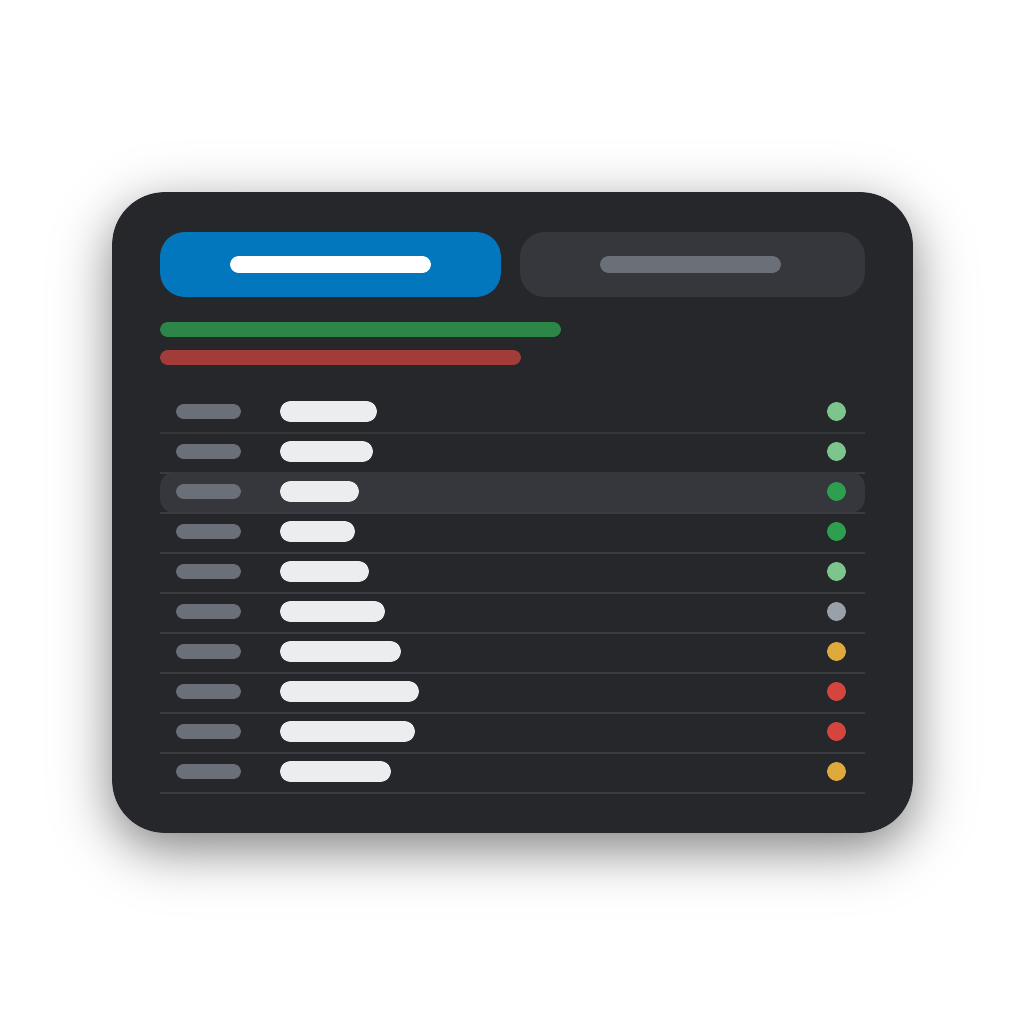
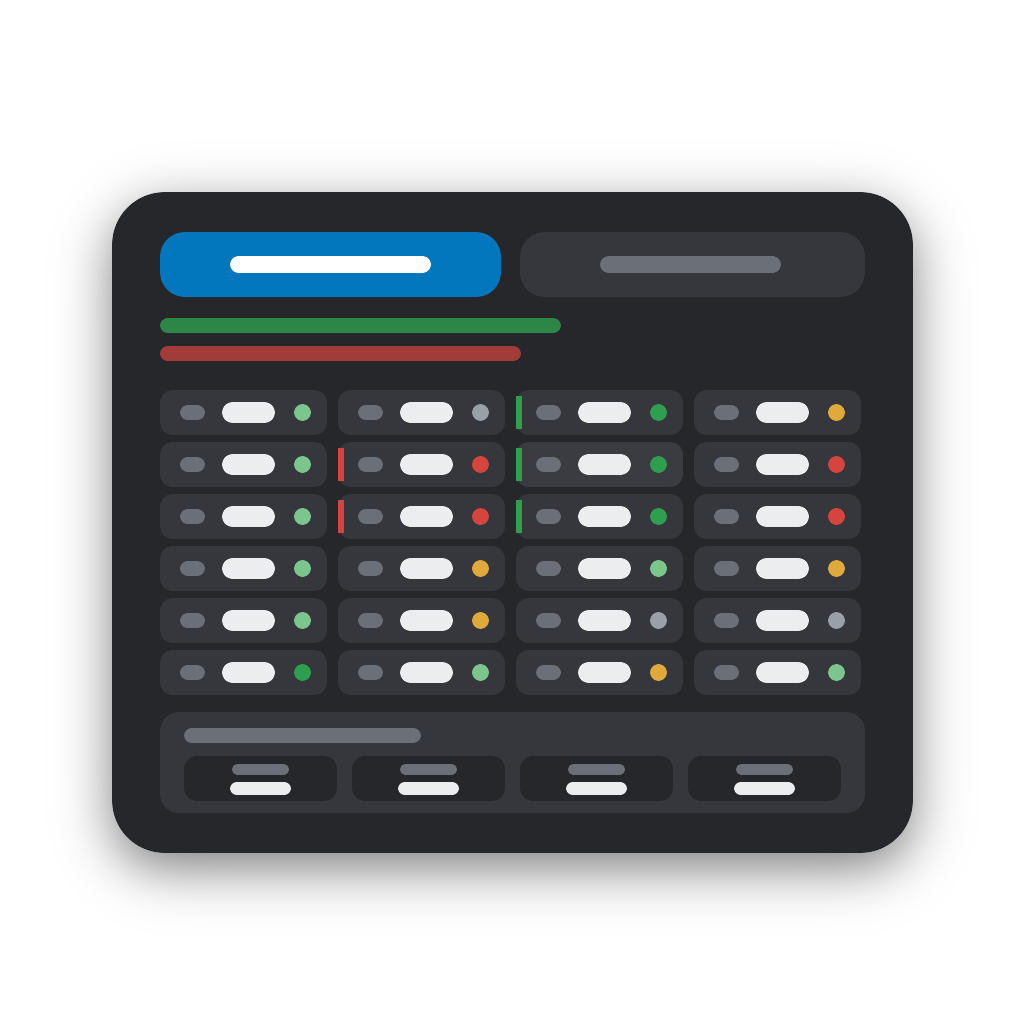
Price list widget: show all 24 hours in a grid instead of a scrolling list
A list with its own scroll area is awkward to use inside a phone
widget and cut off the evening. The hours now sit in a 4 x 6 grid that
fits without scrolling (cheap/peak block marked by a coloured edge,
current hour outlined); tapping an hour shows its quarter-hours in a
panel below. Previews and height updated.

diff --git a/widgets/prices/public/index.html b/widgets/prices/public/index.html
@@ -34,7 +34,7 @@
     html, body { margin: 0; padding: 0; }
     body {
       font-family: -apple-system, BlinkMacSystemFont, "Segoe UI", Roboto, sans-serif;
-      font-size: 13px; color: var(--pl-text); background: var(--pl-bg); padding: 10px 12px 10px;
+      font-size: 12px; color: var(--pl-text); background: var(--pl-bg); padding: 10px 12px 10px;
     }
     .tabs { display: flex; gap: 6px; }
     .tab {
@@ -47,27 +47,32 @@
     .blocks b { font-weight: 700; }
     .blocks .c b { color: var(--pl-vcheap); }
     .blocks .p b { color: var(--pl-vexp); }
-    .list { margin-top: 8px; height: 214px; overflow-y: auto; border-top: 1px solid var(--pl-border); -webkit-overflow-scrolling: touch; }
-    .row {
-      display: grid; grid-template-columns: 52px 1fr 14px; align-items: center; gap: 8px;
-      padding: 6px 4px; border-bottom: 1px solid var(--pl-border); cursor: pointer;
+    .grid { margin-top: 8px; display: grid; grid-auto-flow: column; gap: 4px; }
+    .cell {
+      display: flex; align-items: center; gap: 4px; padding: 0 6px; height: 30px; border-radius: 7px;
+      background: var(--pl-chip-bg); border-left: 3px solid transparent; cursor: pointer; min-width: 0;
+      -webkit-tap-highlight-color: transparent;
     }
-    .row .t { color: var(--pl-muted); font-variant-numeric: tabular-nums; }
-    .row .p { font-weight: 700; font-variant-numeric: tabular-nums; }
-    .row .tag { margin-left: 6px; font-size: 10px; font-weight: 600; padding: 1px 6px; border-radius: 999px; background: var(--pl-chip-bg); }
-    .row .tag.c { color: var(--pl-vcheap); }
-    .row .tag.k { color: var(--pl-vexp); }
-    .row.now { background: var(--pl-chip-bg); }
-    .row.now .t { color: var(--pl-text); font-weight: 700; }
-    .row.past { opacity: .5; }
-    .dot { width: 10px; height: 10px; border-radius: 50%; background: var(--pl-normal); }
+    .cell .t { color: var(--pl-muted); font-size: 10.5px; font-variant-numeric: tabular-nums; flex: 0 0 auto; }
+    .cell .p { font-weight: 700; font-size: 12px; font-variant-numeric: tabular-nums; flex: 1 1 auto; text-align: right; }
+    .cell .dot { width: 8px; height: 8px; border-radius: 50%; flex: 0 0 auto; background: var(--pl-normal); }
+    .cell.cheap { border-left-color: var(--pl-vcheap); }
+    .cell.pricey { border-left-color: var(--pl-vexp); }
+    .cell.past { opacity: .5; }
+    .cell.now { outline: 2px solid var(--pl-accent); outline-offset: -2px; }
+    .cell.sel { background: var(--pl-border); }
     .dot.very_cheap { background: var(--pl-vcheap); }
     .dot.cheap { background: var(--pl-cheap); }
     .dot.normal { background: var(--pl-normal); }
     .dot.expensive { background: var(--pl-exp); }
     .dot.very_expensive { background: var(--pl-vexp); }
-    .quarter { padding-left: 24px; background: transparent; font-size: 12px; cursor: default; }
-    .quarter.now .t { color: var(--pl-text); font-weight: 700; }
+    .detail { margin-top: 8px; padding: 6px 8px; border-radius: 8px; background: var(--pl-chip-bg); min-height: 44px; }
+    .detail .title { font-size: 10.5px; color: var(--pl-muted); margin-bottom: 4px; }
+    .quarters { display: flex; gap: 6px; }
+    .q { flex: 1; text-align: center; padding: 3px 0; border-radius: 6px; background: var(--pl-bg); }
+    .q .qt { display: block; font-size: 10px; color: var(--pl-muted); }
+    .q .qp { font-weight: 700; font-size: 12px; font-variant-numeric: tabular-nums; }
+    .q.now { outline: 2px solid var(--pl-accent); outline-offset: -2px; }
     .foot { margin-top: 6px; font-size: 10px; color: var(--pl-muted); display: flex; justify-content: space-between; gap: 8px; }
     .loading, .load-error, .no-device, .pending { text-align: center; color: var(--pl-muted); font-size: 12px; padding: 18px 0; }
     .load-error { color: var(--pl-vexp); }
@@ -78,10 +83,8 @@
 
   <script type="text/javascript">
     var day = 'today';
-    var expanded = {};
+    var selected = {};
     var lastJson = null;
-    var firstRender = true;
-    var scrolledFor = null;
 
     function esc(str) {
       return String(str == null ? '' : str).replace(/[&<>"']/g, function (c) {
@@ -90,24 +93,13 @@
     }
     function f1(v) { return typeof v === 'number' ? v.toFixed(1) : '–'; }
 
-    function rowsHtml(Homey, d) {
-      return d.hours.map(function (h, i) {
-        var cls = 'row' + (h.isNow ? ' now' : '') + (h.isPast ? ' past' : '');
-        var tag = (h.cheap ? '<span class="tag c">' + esc(Homey.__('priceList.cheapTag')) + '</span>' : '') +
-          (h.pricey ? '<span class="tag k">' + esc(Homey.__('priceList.priceyTag')) + '</span>' : '');
-        var key = d.key + '-' + h.hour;
-        var out = '<div class="' + cls + '" data-key="' + esc(key) + '"' + (h.isNow ? ' id="now-row"' : '') + '>' +
-          '<span class="t">' + esc(h.hour) + '</span>' +
-          '<span><span class="p">' + f1(h.avg) + '</span>' + tag + '</span>' +
-          '<span class="dot ' + (h.level || '') + '"></span></div>';
-        if (expanded[key]) {
-          out += h.quarters.map(function (q) {
-            return '<div class="row quarter' + (q.isNow ? ' now' : '') + '"><span class="t">' + esc(q.time) + '</span>' +
-              '<span class="p">' + f1(q.value) + '</span><span class="dot ' + (q.level || '') + '"></span></div>';
-          }).join('');
-        }
-        return out;
-      }).join('');
+    function detailHtml(Homey, d, key) {
+      var h = d.hours.filter(function (x) { return x.hour === key; })[0];
+      if (!h) return '<div class="title">' + esc(Homey.__('priceList.tapHint')) + '</div>';
+      return '<div class="title">' + esc(h.hour) + ' – ' + esc(String(parseInt(h.hour, 10) + 1).padStart(2, '0')) + ':00 · Ø ' + f1(h.avg) + ' Rp./kWh</div><div class="quarters">' +
+        h.quarters.map(function (q) {
+          return '<div class="q' + (q.isNow ? ' now' : '') + '"><span class="qt">' + esc(q.time) + '</span><span class="qp">' + f1(q.value) + '</span></div>';
+        }).join('') + '</div>';
     }
 
     function render(Homey, data) {
@@ -125,37 +117,31 @@
         '<button class="tab' + (day === 'today' ? ' active' : '') + '" data-day="today">' + esc(Homey.__('priceList.today')) + ' ' + esc(days.today.date) + '</button>' +
         '<button class="tab' + (day === 'tomorrow' ? ' active' : '') + '" data-day="tomorrow"' + (days.tomorrow.available ? '' : ' disabled') + '>' + esc(Homey.__('priceList.tomorrow')) + ' ' + esc(days.tomorrow.date) + '</button></div>';
 
-      var body;
       if (!d.available) {
-        body = '<div class="pending">' + esc(Homey.__('priceList.tomorrowPending')) + '</div>';
+        root.innerHTML = tabs + '<div class="pending">' + esc(Homey.__('priceList.tomorrowPending')) + '</div>';
       } else {
-        body = '<div class="blocks">' +
-          (d.cheapBlock ? '<span class="c">' + esc(Homey.__('priceList.blockLine')) + ': <b>' + d.cheapBlock.start + '–' + d.cheapBlock.end + '</b> · Ø ' + f1(d.cheapBlock.avg) + ' Rp.</span>' : '') +
-          (d.priciestBlock ? '<span class="p">' + esc(Homey.__('priceList.peakLine')) + ': <b>' + d.priciestBlock.start + '–' + d.priciestBlock.end + '</b> · Ø ' + f1(d.priciestBlock.avg) + ' Rp.</span>' : '') +
-          '</div><div class="list" id="list">' + rowsHtml(Homey, d) + '</div>' +
-          '<div class="foot"><span>' + esc(Homey.__('priceList.tapHint')) + '</span><span>' + esc(Homey.__('priceList.price')) + '</span></div>';
-      }
-      var scrollTop = document.getElementById('list') ? document.getElementById('list').scrollTop : 0;
-      root.innerHTML = tabs + body;
+        // Default selection: the current hour today, nothing tomorrow.
+        var now = d.hours.filter(function (h) { return h.isNow; })[0];
+        var key = selected[day] !== undefined ? selected[day] : (now ? now.hour : null);
+        var rows = Math.ceil(d.hours.length / 4);
+        var cells = d.hours.map(function (h) {
+          var cls = 'cell' + (h.cheap ? ' cheap' : '') + (h.pricey ? ' pricey' : '') + (h.isNow ? ' now' : '') + (h.isPast ? ' past' : '') + (h.hour === key ? ' sel' : '');
+          return '<div class="' + cls + '" data-hour="' + esc(h.hour) + '"><span class="t">' + esc(h.hour.slice(0, 2)) + '</span><span class="p">' + f1(h.avg) + '</span><span class="dot ' + (h.level || '') + '"></span></div>';
+        }).join('');
+        root.innerHTML = tabs +
+          '<div class="blocks">' +
+            (d.cheapBlock ? '<span class="c">' + esc(Homey.__('priceList.blockLine')) + ': <b>' + d.cheapBlock.start + '–' + d.cheapBlock.end + '</b> · Ø ' + f1(d.cheapBlock.avg) + ' Rp.</span>' : '') +
+            (d.priciestBlock ? '<span class="p">' + esc(Homey.__('priceList.peakLine')) + ': <b>' + d.priciestBlock.start + '–' + d.priciestBlock.end + '</b> · Ø ' + f1(d.priciestBlock.avg) + ' Rp.</span>' : '') +
+          '</div>' +
+          '<div class="grid" id="grid" style="grid-template-rows: repeat(' + rows + ', 30px); grid-template-columns: repeat(4, minmax(0, 1fr));">' + cells + '</div>' +
+          '<div class="detail" id="detail">' + detailHtml(Homey, d, key) + '</div>' +
+          '<div class="foot"><span>' + esc(Homey.__('priceList.legend')) + '</span><span>' + esc(Homey.__('priceList.price')) + '</span></div>';
 
-      var list = document.getElementById('list');
-      if (list) {
-        // Today: show the current hour at the top on the first view of that day, afterwards keep the position.
-        if (day === 'today' && scrolledFor !== 'today') {
-          var nowRow = document.getElementById('now-row');
-          if (nowRow) list.scrollTop = Math.max(0, nowRow.offsetTop - list.offsetTop);
-          scrolledFor = 'today';
-        } else if (day === 'tomorrow' && scrolledFor !== 'tomorrow') {
-          list.scrollTop = 0;
-          scrolledFor = 'tomorrow';
-        } else {
-          list.scrollTop = scrollTop;
-        }
-        list.addEventListener('click', function (e) {
-          var row = e.target.closest ? e.target.closest('.row[data-key]') : null;
-          if (!row) return;
-          var key = row.getAttribute('data-key');
-          expanded[key] = !expanded[key];
+        document.getElementById('grid').addEventListener('click', function (e) {
+          var cell = e.target.closest ? e.target.closest('.cell') : null;
+          if (!cell) return;
+          var h = cell.getAttribute('data-hour');
+          selected[day] = selected[day] === h ? null : h;
           render(Homey, data);
         });
       }
@@ -163,7 +149,6 @@
         b.addEventListener('click', function () {
           if (b.disabled) return;
           day = b.getAttribute('data-day');
-          scrolledFor = null;
           render(Homey, data);
         });
       });
@@ -176,7 +161,6 @@
           if (json === lastJson) return;
           lastJson = json;
           render(Homey, data);
-          if (firstRender) { firstRender = false; }
         })
         .catch(function (err) {
           console.error(err);
@@ -188,12 +172,12 @@
     function onHomeyReady(Homey) {
       try {
         document.getElementById('root').innerHTML = '<div class="loading">' + esc(Homey.__('priceList.loading')) + '</div>';
-        Homey.ready({ height: 340 });
+        Homey.ready({ height: 400 });
         fetchPrices(Homey);
         setInterval(function () { fetchPrices(Homey); }, 60000);
       } catch (err) {
         document.getElementById('root').innerHTML = '<div class="load-error">Widget error: ' + esc(err && err.message ? err.message : err) + '</div>';
-        try { Homey.ready({ height: 340 }); } catch (e2) { /* nothing more to do */ }
+        try { Homey.ready({ height: 400 }); } catch (e2) { /* nothing more to do */ }
       }
     }
   </script>
